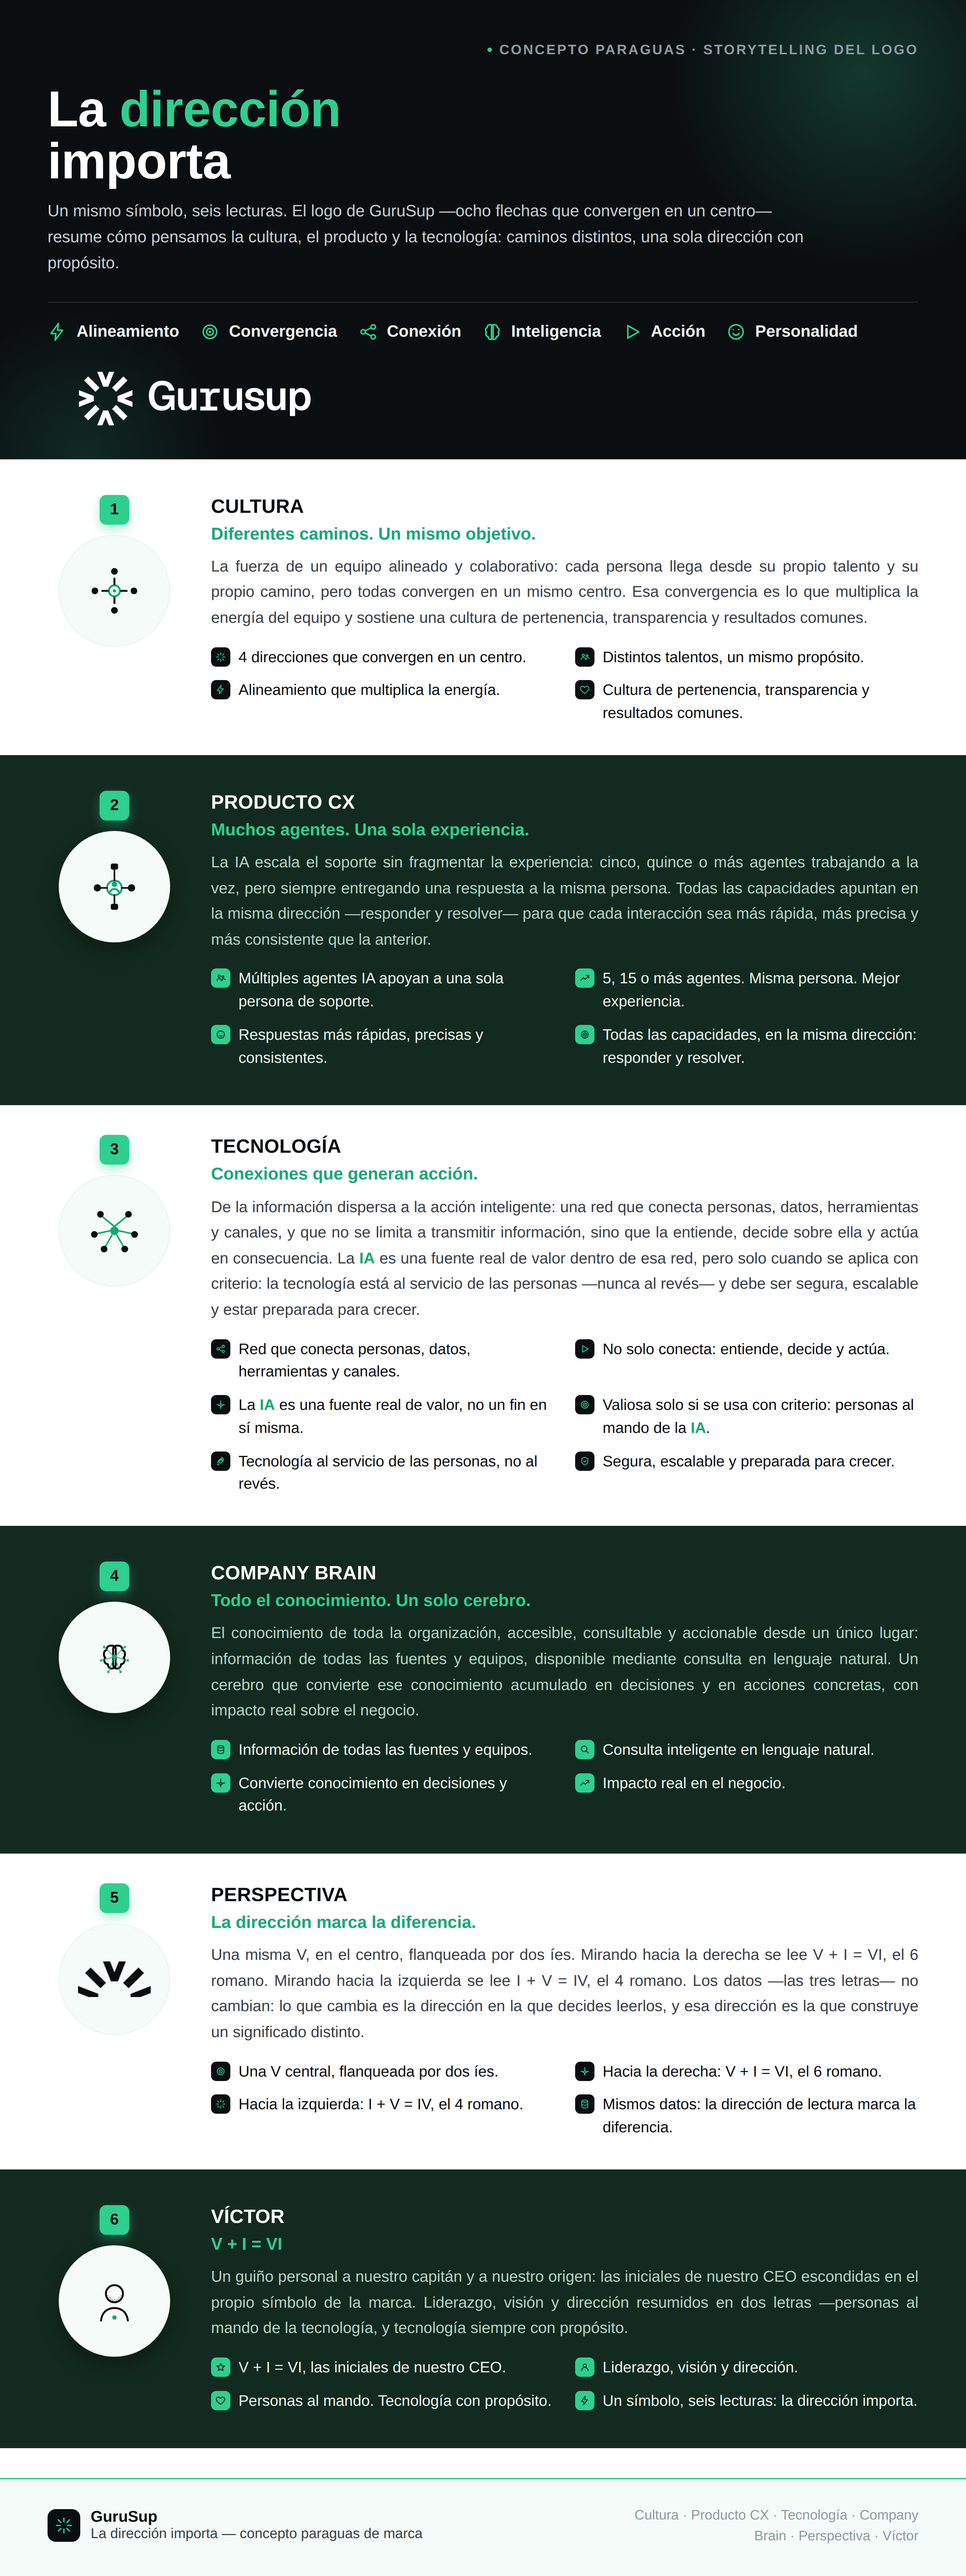
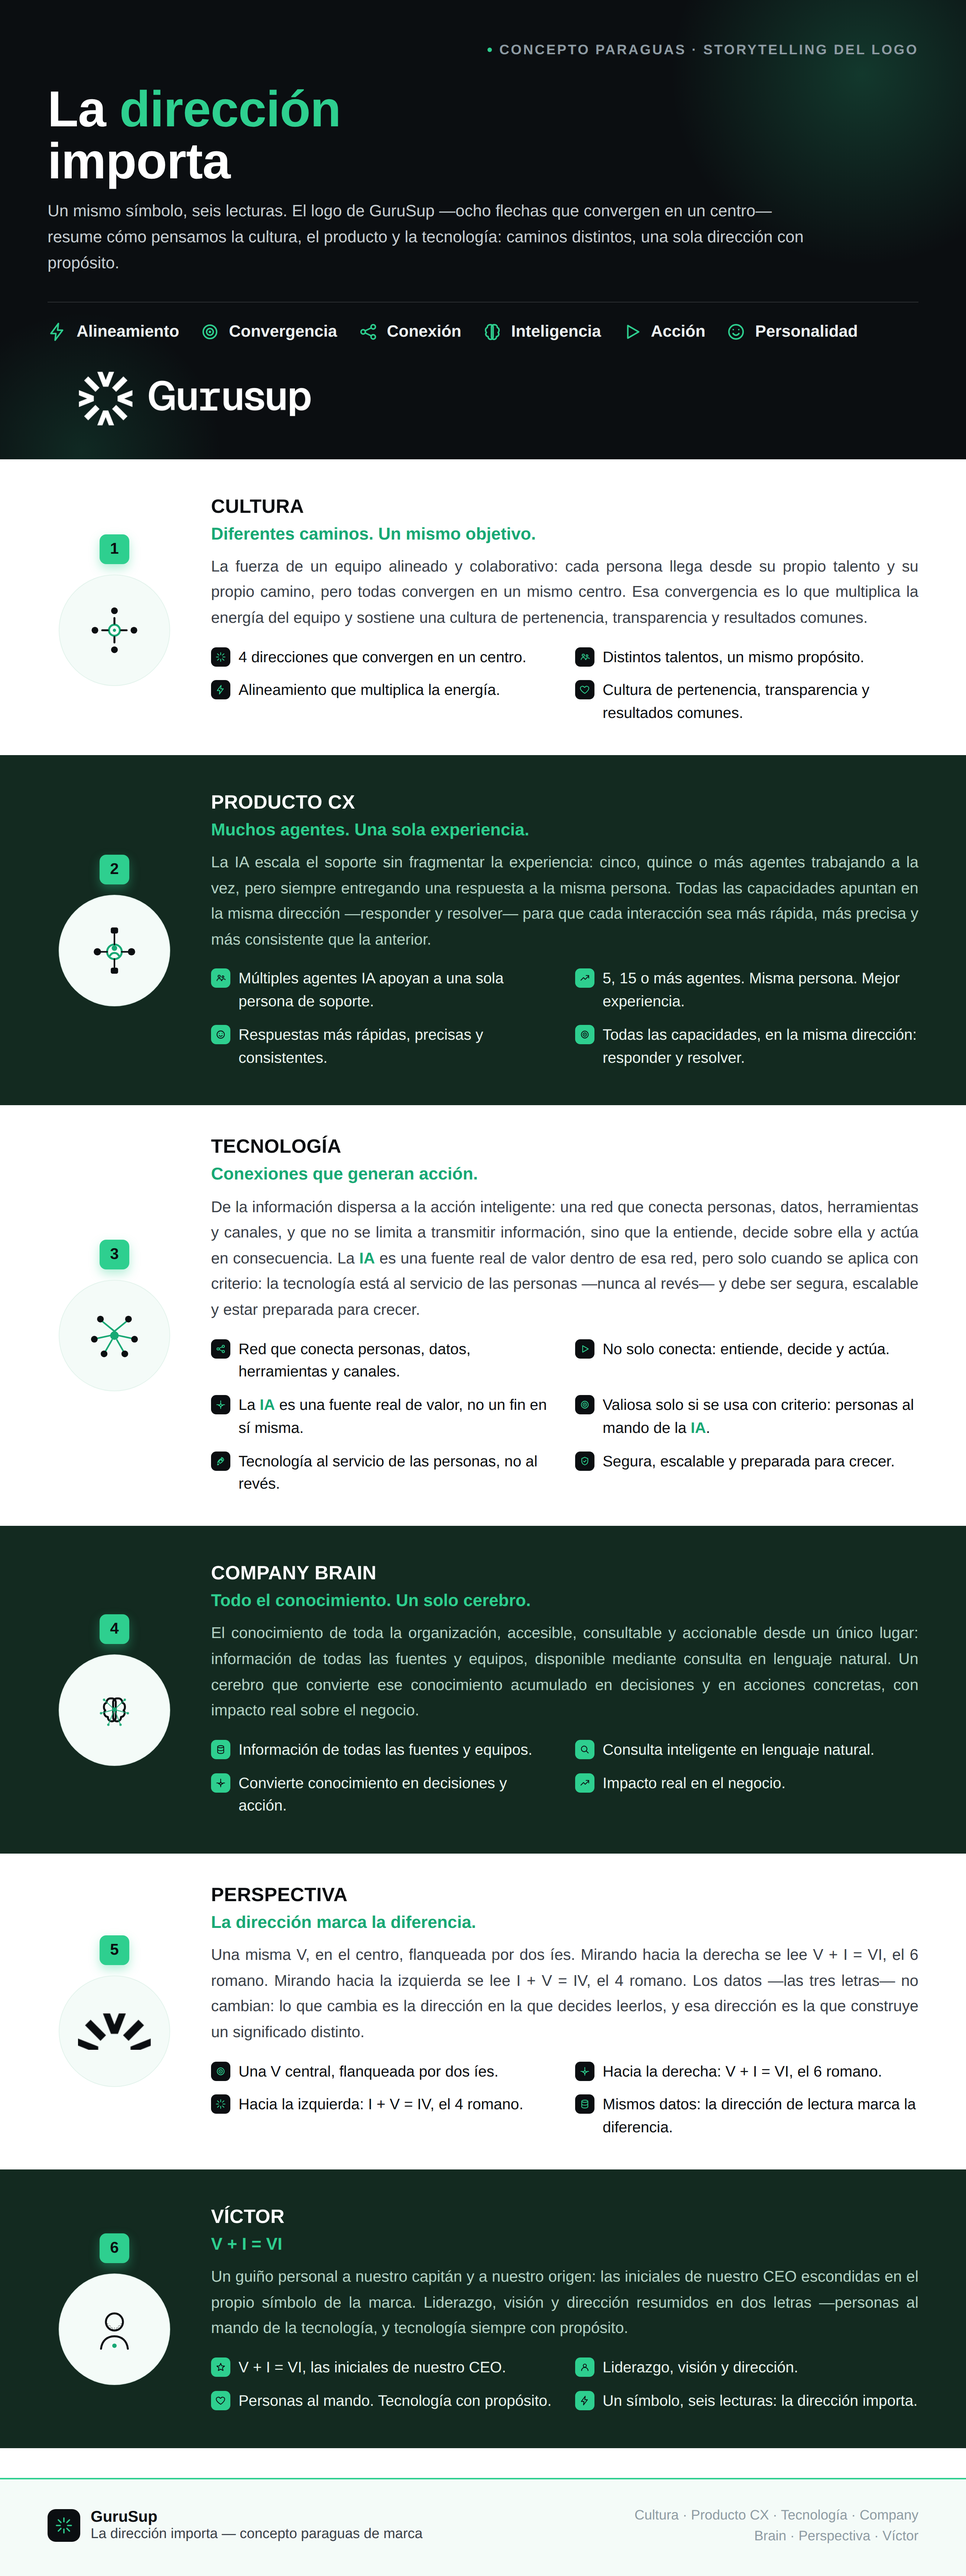
Centra verticalmente las ilustraciones en cada sección
Quita la sombra flotante de las ilustraciones en las secciones con
fondo oscuro (efecto "bola de navidad") y centra badge+ilustración
verticalmente respecto al bloque de texto de cada sección, en lugar
de quedar ancladas arriba.

Claude-Session: https://claude.ai/code/session_019WmuM4uE7b9LjzLhY7VJCf

diff --git a/infografia/gurusup-direccion-importa.html b/infografia/gurusup-direccion-importa.html
@@ -88,7 +88,7 @@
   /* ===== SECTIONS ===== */
   .sections{ padding:8px 64px 40px; }
   .row{
-    display:flex; align-items:flex-start; gap:40px;
+    display:flex; align-items:center; gap:40px;
     padding:40px 0;
   }
   .row + .row{ border-top:1px solid var(--line); }
@@ -107,7 +107,6 @@
   .row.row-alt .bullet p{ color:#EAF4EE; }
   .row.row-alt .bullet .ic{ background:var(--green); }
   .row.row-alt .bullet .ic svg{ color:var(--ink); }
-  .row.row-alt .illus{ box-shadow:0 10px 26px rgba(0,0,0,.35); }
 
   .illus-col{ width:180px; flex:none; display:flex; flex-direction:column; align-items:center; gap:14px; }
   .badge{
